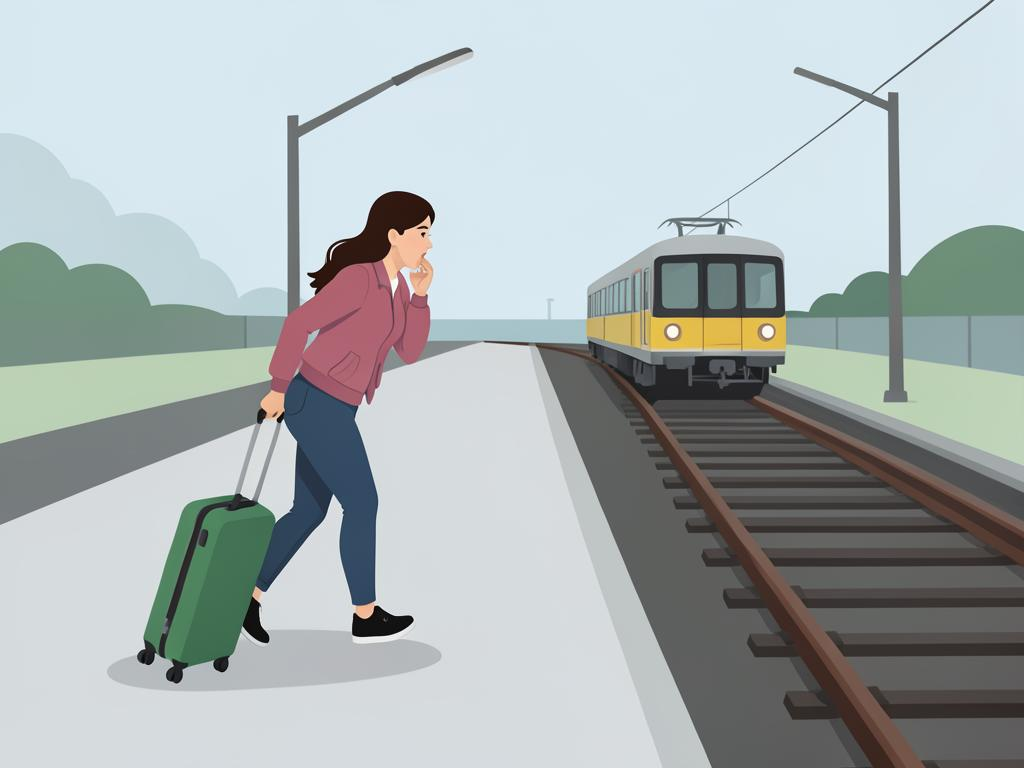
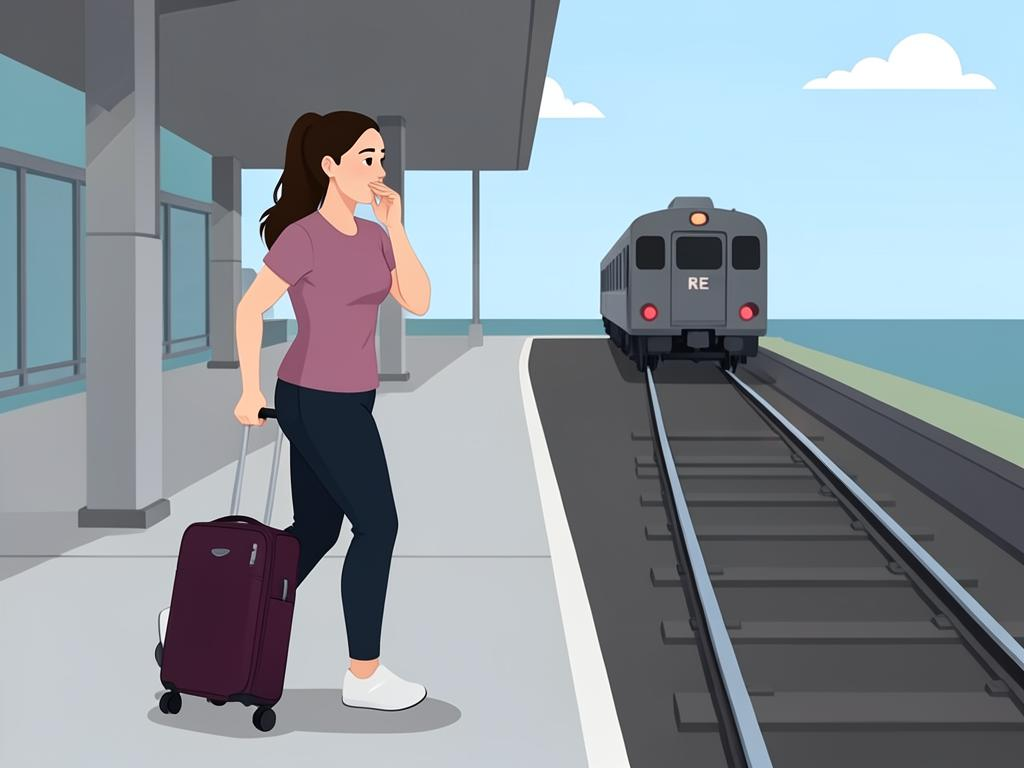
Changes

diff --git a/src/services/review/past-perfect-practices.ts b/src/services/review/past-perfect-practices.ts
@@ -1,0 +1,21 @@
+import type { ReviewPractice } from "@/lib/review-types";
+import scene1 from "@/assets/review/past-perfect/practice-1-sofia.jpg";
+import scene2 from "@/assets/review/past-perfect/practice-2-interview.jpg";
+import scene3 from "@/assets/review/past-perfect/practice-3-carlos.jpg";
+import scene4 from "@/assets/review/past-perfect/practice-4-trip.jpg";
+import scene5 from "@/assets/review/past-perfect/practice-5-elena.jpg";
+
+const img=(src:string,alt:string,altEs:string)=>({src,alt,altEs});
+const q=(id:string,question:string,questionEs:string,hint:string,hintEs:string)=>({id,question,questionEs,hint,hintEs});
+export const PAST_PERFECT_PRACTICES: ReviewPractice[] = [
+ { number:1,id:"pap-1-sofia",title:"Sofia missed the train",titleEs:"Sofía perdió el tren",person:"third",character:"Sofia",focus:"Earlier completed actions and ongoing activity before a missed train.",focusEs:"Acciones completadas y actividad continua antes de perder un tren.",reminder:{en:"Use had + participle for the earlier result and had been + -ing for duration.",es:"Usa had + participio para el resultado anterior y had been + -ing para duración."},showFullGuide:true,instructions:{en:"Explain what had happened before Sofia reached the platform.",es:"Explica qué había pasado antes de que Sofía llegara al andén."},sceneImage:img(scene1,"Sofia watching the train she had missed","Sofía observando el tren que había perdido"),vocabulary:["had left","had forgotten","had been running","by the time","because","before"],lines:[
+  {id:"pap1-l1",text:"Sofia had woken up later than usual.",es:"Sofía se había despertado más tarde de lo normal.",chunks:["Sofia had woken up","later than usual."]},{id:"pap1-l2",text:"She had forgotten to set her alarm.",es:"Había olvidado poner la alarma.",chunks:["She had forgotten","to set her alarm."]},{id:"pap1-l3",text:"She had been getting ready in a hurry.",es:"Había estado preparándose con prisa.",chunks:["She had been getting ready","in a hurry."]},{id:"pap1-l4",text:"She had called a taxi before leaving home.",es:"Había llamado un taxi antes de salir de casa.",chunks:["She had called a taxi","before leaving home."]},{id:"pap1-l5",text:"Traffic had delayed her for twenty minutes.",es:"El tráfico la había retrasado veinte minutos.",chunks:["Traffic had delayed her","for twenty minutes."]},{id:"pap1-l6",text:"She had been running toward the platform.",es:"Había estado corriendo hacia el andén.",chunks:["She had been running","toward the platform."]},{id:"pap1-l7",text:"The train had already left when she arrived.",es:"El tren ya había salido cuando ella llegó.",chunks:["The train had already left","when she arrived."]},{id:"pap1-l8",text:"She was tired because she had been rushing all morning.",es:"Estaba cansada porque había estado apurada toda la mañana.",chunks:["She was tired because","she had been rushing","all morning."]}],questions:[q("pap1-q1","What had Sofia forgotten to do?","¿Qué había olvidado hacer Sofía?","She had forgotten…","Usa had + participio."),q("pap1-q2","Why had she arrived late?","¿Por qué había llegado tarde?","She had arrived late because…","Usa because."),q("pap1-q3","How long had traffic delayed her?","¿Cuánto tiempo la había retrasado el tráfico?","It had delayed her for…","Di la duración."),q("pap1-q4","Where had she been running?","¿Hacia dónde había estado corriendo?","She had been running toward…","Di el lugar."),q("pap1-q5","When had the train left?","¿Cuándo había salido el tren?","It had left before…","Usa before.")],finalPrompt:{question:"Tell Sofia's morning story and explain why she missed the train.",questionEs:"Cuenta la mañana de Sofía y explica por qué perdió el tren.",tips:{en:"Use had + participle for results and had been + -ing for longer actions.",es:"Usa had + participio para resultados y had been + -ing para acciones prolongadas."}},grammarGoals:["had + past participle","had been + -ing","before, when and because"] },
+ { number:2,id:"pap-2-interview",title:"Before my interview",titleEs:"Antes de mi entrevista",person:"first",character:null,focus:"Personal preparation completed or continuing before an interview.",focusEs:"Preparación personal completada o continua antes de una entrevista.",reminder:{en:"Say what you had completed and what you had been doing before the interview.",es:"Di qué habías completado y qué habías estado haciendo antes de la entrevista."},showFullGuide:false,instructions:{en:"Imagine the night and morning before an important interview.",es:"Imagina la noche y la mañana antes de una entrevista importante."},sceneImage:img(scene2,"A learner preparing late for an interview","Un estudiante preparándose hasta tarde para una entrevista"),vocabulary:["had prepared","had reviewed","had been practicing","for hours","before","by the time"],lines:[
+  {id:"pap2-l1",text:"I had researched the company before the interview.",es:"Había investigado la empresa antes de la entrevista.",chunks:["I had researched the company","before the interview."]},{id:"pap2-l2",text:"I had prepared my clothes the night before.",es:"Había preparado mi ropa la noche anterior.",chunks:["I had prepared my clothes","the night before."]},{id:"pap2-l3",text:"I had written answers to common questions.",es:"Había escrito respuestas a preguntas comunes.",chunks:["I had written answers","to common questions."]},{id:"pap2-l4",text:"I had been practicing my introduction for two hours.",es:"Había estado practicando mi presentación durante dos horas.",chunks:["I had been practicing","my introduction","for two hours."]},{id:"pap2-l5",text:"I had been working on my pronunciation all week.",es:"Había estado trabajando en mi pronunciación toda la semana.",chunks:["I had been working","on my pronunciation","all week."]},{id:"pap2-l6",text:"I hadn't slept much before the interview.",es:"No había dormido mucho antes de la entrevista.",chunks:["I hadn't slept much","before the interview."]},{id:"pap2-l7",text:"By the time I left home, I had checked everything twice.",es:"Cuando salí de casa, había revisado todo dos veces.",chunks:["By the time I left home,","I had checked everything twice."]},{id:"pap2-l8",text:"I felt ready because I had been preparing carefully.",es:"Me sentía listo porque había estado preparándome con cuidado.",chunks:["I felt ready because","I had been preparing carefully."]}],questions:[q("pap2-q1","What had you prepared before the interview?","¿Qué habías preparado antes de la entrevista?","I had prepared…","Usa had + participio."),q("pap2-q2","How long had you been practicing?","¿Cuánto tiempo habías estado practicando?","I had been practicing for…","Usa for."),q("pap2-q3","Why had you felt ready?","¿Por qué te habías sentido listo?","I felt ready because…","Explica la razón."),q("pap2-q4","When had you checked everything?","¿Cuándo habías revisado todo?","By the time…","Usa by the time."),q("pap2-q5","How often had you practiced that week?","¿Con qué frecuencia habías practicado esa semana?","I had been practicing…","Di la frecuencia.")],finalPrompt:{question:"Describe everything you had done and had been doing before your interview.",questionEs:"Describe todo lo que habías hecho y habías estado haciendo antes de tu entrevista.",tips:{en:"Include three completed preparations, two longer activities and one negative.",es:"Incluye tres preparaciones completas, dos actividades prolongadas y una negativa."}},grammarGoals:["first person past perfect","first person past perfect progressive","by the time and before"] },
+ { number:3,id:"pap-3-carlos",title:"Carlos finished the project",titleEs:"Carlos terminó el proyecto",person:"third",character:"Carlos",focus:"Team results and sustained work before a presentation.",focusEs:"Resultados del equipo y trabajo sostenido antes de una presentación.",reminder:{en:"Completed project results use had finished; effort over time uses had been working.",es:"Los resultados completos usan had finished; el esfuerzo prolongado usa had been working."},showFullGuide:false,instructions:{en:"Tell how Carlos and his team reached the final presentation.",es:"Cuenta cómo Carlos y su equipo llegaron a la presentación final."},sceneImage:img(scene3,"Carlos presenting a completed project after weeks of work","Carlos presentando un proyecto completo después de semanas de trabajo"),vocabulary:["had completed","had tested","had been working","for weeks","deadline","presentation"],lines:[
+  {id:"pap3-l1",text:"Carlos had planned the project with his team.",es:"Carlos había planificado el proyecto con su equipo.",chunks:["Carlos had planned the project","with his team."]},{id:"pap3-l2",text:"They had divided the work before they started.",es:"Habían dividido el trabajo antes de comenzar.",chunks:["They had divided the work","before they started."]},{id:"pap3-l3",text:"They had been building the prototype for three weeks.",es:"Habían estado construyendo el prototipo durante tres semanas.",chunks:["They had been building","the prototype","for three weeks."]},{id:"pap3-l4",text:"Carlos had been checking every detail each evening.",es:"Carlos había estado revisando cada detalle cada tarde.",chunks:["Carlos had been checking","every detail","each evening."]},{id:"pap3-l5",text:"The team had tested the prototype twice.",es:"El equipo había probado el prototipo dos veces.",chunks:["The team had tested","the prototype twice."]},{id:"pap3-l6",text:"They hadn't found any serious problems.",es:"No habían encontrado problemas graves.",chunks:["They hadn't found","any serious problems."]},{id:"pap3-l7",text:"By presentation day, they had completed everything.",es:"Para el día de la presentación, habían completado todo.",chunks:["By presentation day,","they had completed everything."]},{id:"pap3-l8",text:"They were tired because they had been working late.",es:"Estaban cansados porque habían estado trabajando hasta tarde.",chunks:["They were tired because","they had been working late."]}],questions:[q("pap3-q1","Who had planned the project?","¿Quién había planificado el proyecto?","Carlos had…","Di quién."),q("pap3-q2","How long had the team been building the prototype?","¿Cuánto tiempo había estado construyendo el equipo el prototipo?","They had been building it for…","Usa for."),q("pap3-q3","Why had the team been tired?","¿Por qué había estado cansado el equipo?","They were tired because…","Usa because."),q("pap3-q4","What had they tested twice?","¿Qué habían probado dos veces?","They had tested…","Usa had + participio."),q("pap3-q5","How often had Carlos checked the details?","¿Con qué frecuencia Carlos había revisado los detalles?","He had been checking…","Di la frecuencia.")],finalPrompt:{question:"Explain how Carlos and his team had prepared before the final presentation.",questionEs:"Explica cómo Carlos y su equipo se habían preparado antes de la presentación final.",tips:{en:"Contrast completed results with work that had continued for weeks.",es:"Contrasta resultados completos con el trabajo que había continuado durante semanas."}},grammarGoals:["third person and plural past perfect","past perfect progressive for team effort","result versus duration"] },
+ { number:4,id:"pap-4-trip",title:"Before I reached the beach",titleEs:"Antes de llegar a la playa",person:"first",character:null,focus:"A travel sequence with completed preparations and a long journey.",focusEs:"Una secuencia de viaje con preparativos completos y un trayecto largo.",reminder:{en:"Use after and by the time to put your travel events in order.",es:"Usa after y by the time para ordenar los eventos del viaje."},showFullGuide:false,instructions:{en:"Tell a trip from packing at home to arriving at a rainy beach.",es:"Cuenta un viaje desde empacar en casa hasta llegar a una playa lluviosa."},sceneImage:img(scene4,"Travelers reaching a tropical beach after a rainy bus journey","Viajeros llegando a una playa tropical después de un trayecto lluvioso en bus"),vocabulary:["had packed","had booked","had been traveling","all day","after","by the time"],lines:[
+  {id:"pap4-l1",text:"I had booked the hotel before the trip.",es:"Había reservado el hotel antes del viaje.",chunks:["I had booked the hotel","before the trip."]},{id:"pap4-l2",text:"I had packed light clothes and a camera.",es:"Había empacado ropa ligera y una cámara.",chunks:["I had packed","light clothes and a camera."]},{id:"pap4-l3",text:"I had checked the weather, but the forecast had changed.",es:"Había revisado el clima, pero el pronóstico había cambiado.",chunks:["I had checked the weather,","but the forecast had changed."]},{id:"pap4-l4",text:"We had been traveling by bus since early morning.",es:"Habíamos estado viajando en bus desde temprano.",chunks:["We had been traveling by bus","since early morning."]},{id:"pap4-l5",text:"It had been raining for most of the journey.",es:"Había estado lloviendo durante casi todo el trayecto.",chunks:["It had been raining","for most of the journey."]},{id:"pap4-l6",text:"We hadn't eaten before we reached the coast.",es:"No habíamos comido antes de llegar a la costa.",chunks:["We hadn't eaten","before we reached the coast."]},{id:"pap4-l7",text:"By the time we arrived, the sun had started to appear.",es:"Cuando llegamos, el sol había comenzado a aparecer.",chunks:["By the time we arrived,","the sun had started to appear."]},{id:"pap4-l8",text:"I was excited because I had been dreaming about that beach.",es:"Estaba emocionado porque había estado soñando con esa playa.",chunks:["I was excited because","I had been dreaming","about that beach."]}],questions:[q("pap4-q1","What had you packed before the trip?","¿Qué habías empacado antes del viaje?","I had packed…","Usa had + participio."),q("pap4-q2","Where had you been traveling?","¿Hacia dónde habías estado viajando?","We had been traveling to…","Di el destino."),q("pap4-q3","How long had it been raining?","¿Cuánto tiempo había estado lloviendo?","It had been raining for…","Usa for."),q("pap4-q4","Why had you felt excited?","¿Por qué te habías sentido emocionado?","I was excited because…","Usa because."),q("pap4-q5","When had the sun appeared?","¿Cuándo había aparecido el sol?","By the time…","Usa by the time.")],finalPrompt:{question:"Tell the complete trip and what had happened before you reached the beach.",questionEs:"Cuenta el viaje completo y lo que había ocurrido antes de llegar a la playa.",tips:{en:"Use after, before and by the time, plus both perfect forms.",es:"Usa after, before y by the time, además de ambas formas perfectas."}},grammarGoals:["travel sequence with past perfect","weather and journey duration","after, before and by the time"] },
+ { number:5,id:"pap-5-elena",title:"Elena solved the problem",titleEs:"Elena resolvió el problema",person:"third",character:"Elena",focus:"A solved technical problem after completed checks and sustained troubleshooting.",focusEs:"Un problema técnico resuelto después de revisiones completas y trabajo continuo.",reminder:{en:"Tell the finished checks with had + participle and the long effort with had been + -ing.",es:"Cuenta las revisiones terminadas con had + participio y el esfuerzo largo con had been + -ing."},showFullGuide:false,instructions:{en:"Explain how Elena's team restored the system after working all night.",es:"Explica cómo el equipo de Elena restauró el sistema después de trabajar toda la noche."},sceneImage:img(scene5,"Elena and her team after restoring a computer system","Elena y su equipo después de restaurar un sistema informático"),vocabulary:["had failed","had checked","had been troubleshooting","all night","because","finally"],lines:[
+  {id:"pap5-l1",text:"The office system had failed before midnight.",es:"El sistema de la oficina había fallado antes de medianoche.",chunks:["The office system had failed","before midnight."]},{id:"pap5-l2",text:"Elena had received several urgent calls.",es:"Elena había recibido varias llamadas urgentes.",chunks:["Elena had received","several urgent calls."]},{id:"pap5-l3",text:"Her team had been troubleshooting the problem all night.",es:"Su equipo había estado resolviendo el problema toda la noche.",chunks:["Her team had been troubleshooting","the problem","all night."]},{id:"pap5-l4",text:"They had checked every cable and computer.",es:"Habían revisado cada cable y computadora.",chunks:["They had checked","every cable and computer."]},{id:"pap5-l5",text:"They hadn't discovered the cause at first.",es:"Al principio no habían descubierto la causa.",chunks:["They hadn't discovered","the cause","at first."]},{id:"pap5-l6",text:"Elena had been comparing the settings for hours.",es:"Elena había estado comparando las configuraciones durante horas.",chunks:["Elena had been comparing","the settings","for hours."]},{id:"pap5-l7",text:"She found a cable that someone had connected incorrectly.",es:"Encontró un cable que alguien había conectado incorrectamente.",chunks:["She found a cable","that someone had connected incorrectly."]},{id:"pap5-l8",text:"Everyone felt relieved because they had finally restored the system.",es:"Todos se sintieron aliviados porque finalmente habían restaurado el sistema.",chunks:["Everyone felt relieved because","they had finally restored","the system."]}],questions:[q("pap5-q1","What had failed before midnight?","¿Qué había fallado antes de medianoche?","The system had…","Di qué falló."),q("pap5-q2","Why had Elena received urgent calls?","¿Por qué Elena había recibido llamadas urgentes?","She had received calls because…","Usa because."),q("pap5-q3","How long had the team been troubleshooting?","¿Cuánto tiempo había estado resolviendo el problema el equipo?","They had been troubleshooting for…","Di la duración."),q("pap5-q4","Who had connected the cable incorrectly?","¿Quién había conectado mal el cable?","Someone had…","Usa had + participio."),q("pap5-q5","How often had Elena checked the settings?","¿Con qué frecuencia Elena había revisado las configuraciones?","She had been checking…","Di la frecuencia.")],finalPrompt:{question:"Tell how Elena and her team solved the problem after working all night.",questionEs:"Cuenta cómo Elena y su equipo resolvieron el problema después de trabajar toda la noche.",tips:{en:"Explain the problem, the long investigation, the discovery and the final result.",es:"Explica el problema, la investigación prolongada, el descubrimiento y el resultado final."}},grammarGoals:["past perfect for previous technical events","past perfect progressive for troubleshooting duration","because and before"] },
+];

diff --git a/src/services/review/past-perfect-guide.ts b/src/services/review/past-perfect-guide.ts
@@ -1,0 +1,29 @@
+import type { ReviewGuideCard, ReviewModule } from "@/lib/review-types";
+import g1 from "@/assets/review/past-perfect/guide-1-order.jpg";
+import g2 from "@/assets/review/past-perfect/guide-2-form.jpg";
+import g3 from "@/assets/review/past-perfect/guide-3-duration.jpg";
+import g4 from "@/assets/review/past-perfect/guide-4-contrast.jpg";
+import g5 from "@/assets/review/past-perfect/guide-5-negative.jpg";
+import g6 from "@/assets/review/past-perfect/guide-6-questions.jpg";
+import g7 from "@/assets/review/past-perfect/guide-7-connectors.jpg";
+
+const image = (src: string, alt: string, altEs: string) => ({ src, alt, altEs });
+
+export const PAST_PERFECT_GUIDE: ReviewGuideCard[] = [
+  { id:"pap-1-order", title:"An earlier past action", titleEs:"Una acción anterior en el pasado", explanation:"Use the past perfect for the action that happened first when you talk about two past moments.", explanationEs:"Usa past perfect para la acción que ocurrió primero cuando cuentas dos momentos del pasado.", image:image(g1,"A traveler watching the plane that had departed","Una viajera observando el avión que ya había salido"), examples:[{en:"The plane had left before Ana arrived.",es:"El avión había salido antes de que Ana llegara."},{en:"I had eaten when he called.",es:"Yo ya había comido cuando él llamó."},{en:"They had finished before noon.",es:"Habían terminado antes del mediodía."}], check:{prompt:"Say which action happened first: I had eaten when he called.",promptEs:"Di cuál acción ocurrió primero: I had eaten when he called.",answer:"I had eaten first."} },
+  { id:"pap-2-form", title:"had + past participle", titleEs:"had + participio", explanation:"Had is the same for every subject. Follow it with a past participle.", explanationEs:"Had es igual para todos los sujetos. Después usa el participio pasado.", image:image(g2,"A room prepared before guests arrived","Un salón preparado antes de que llegaran los invitados"), examples:[{en:"I had prepared everything.",es:"Yo había preparado todo."},{en:"She had written the email.",es:"Ella había escrito el correo."},{en:"We had gone home.",es:"Nos habíamos ido a casa."}], check:{prompt:"Correct: She had wrote the email.",promptEs:"Corrige: She had wrote the email.",answer:"She had written the email."} },
+  { id:"pap-3-progressive", title:"had been + verb-ing", titleEs:"had been + verbo-ing", explanation:"Use it for an activity that continued for some time before another past event.", explanationEs:"Úsalo para una actividad que continuó durante un tiempo antes de otro evento pasado.", image:image(g3,"A runner who had been running before the rain","Una corredora que había estado corriendo antes de la lluvia"), examples:[{en:"She had been running for an hour when it rained.",es:"Ella había estado corriendo por una hora cuando llovió."},{en:"We had been waiting since noon.",es:"Habíamos estado esperando desde el mediodía."},{en:"He had been studying all night.",es:"Él había estado estudiando toda la noche."}], check:{prompt:"Say how long he had been studying.",promptEs:"Di cuánto tiempo había estado estudiando.",answer:"He had been studying all night."} },
+  { id:"pap-4-contrast", title:"Result or duration?", titleEs:"¿Resultado o duración?", explanation:"Past perfect emphasizes a completed result. Past perfect progressive emphasizes the activity or its duration.", explanationEs:"Past perfect enfatiza un resultado completo. Past perfect progressive enfatiza la actividad o su duración.", image:image(g4,"Finished boxes compared with someone still packing","Cajas terminadas comparadas con alguien que seguía empacando"), examples:[{en:"They had packed six boxes. (result)",es:"Habían empacado seis cajas. (resultado)"},{en:"They had been packing for hours. (duration)",es:"Habían estado empacando por horas. (duración)"},{en:"The floor was wet because it had been raining.",es:"El piso estaba mojado porque había estado lloviendo."}], check:{prompt:"Choose the form for a completed result.",promptEs:"Elige la forma para un resultado completo.",answer:"They had packed six boxes."} },
+  { id:"pap-5-negative", title:"Negatives", titleEs:"Negativas", explanation:"Use had not (hadn't) + participle, or hadn't been + verb-ing.", explanationEs:"Usa had not (hadn't) + participio, o hadn't been + verbo-ing.", image:image(g5,"A family discovering dinner had not been prepared","Una familia descubriendo que la cena no había sido preparada"), examples:[{en:"I hadn't finished when she arrived.",es:"Yo no había terminado cuando ella llegó."},{en:"He hadn't called before the meeting.",es:"Él no había llamado antes de la reunión."},{en:"They hadn't been sleeping well.",es:"No habían estado durmiendo bien."}], check:{prompt:"Make negative: She had finished.",promptEs:"Haz negativa: She had finished.",answer:"She hadn't finished."} },
+  { id:"pap-6-questions", title:"Questions", titleEs:"Preguntas", explanation:"Put had before the subject. For duration, use How long had … been + -ing?", explanationEs:"Pon had antes del sujeto. Para duración usa How long had … been + -ing?", image:image(g6,"Coworkers asking about earlier project events","Compañeros preguntando por eventos anteriores del proyecto"), examples:[{en:"What had you done before noon?",es:"¿Qué habías hecho antes del mediodía?"},{en:"Had she left before you arrived?",es:"¿Ella se había ido antes de que llegaras?"},{en:"How long had they been working?",es:"¿Cuánto tiempo habían estado trabajando?"}], check:{prompt:"Ask how long he had been waiting.",promptEs:"Pregunta cuánto tiempo había estado esperando.",answer:"How long had he been waiting?"} },
+  { id:"pap-7-connectors", title:"Make the sequence clear", titleEs:"Aclara la secuencia", explanation:"Use before, after, by the time, when and because to connect the earlier action to the later event.", explanationEs:"Usa before, after, by the time, when y because para conectar la acción anterior con el evento posterior.", image:image(g7,"A traveler preparing, traveling and arriving in sequence","Un viajero preparando, viajando y llegando en secuencia"), examples:[{en:"By the time we arrived, the rain had stopped.",es:"Cuando llegamos, la lluvia ya había parado."},{en:"After I had packed, I called a taxi.",es:"Después de empacar, llamé un taxi."},{en:"She was tired because she had been driving all day.",es:"Estaba cansada porque había estado manejando todo el día."}], check:{prompt:"Connect two events with by the time.",promptEs:"Conecta dos eventos con by the time.",answer:"By the time I arrived, they had left."} },
+];
+
+export const PAST_PERFECT_COMMON_ERRORS: ReviewModule["commonErrors"] = [
+  { wrong:"She had went home.", right:"She had gone home.", es:"Después de had usa el participio: gone, no went." },
+  { wrong:"I have finished before he arrived.", right:"I had finished before he arrived.", es:"Para una acción anterior a otro momento pasado usa had." },
+  { wrong:"They had been work all night.", right:"They had been working all night.", es:"Después de had been usa verbo con -ing." },
+  { wrong:"He had working for hours.", right:"He had been working for hours.", es:"En la forma progresiva no olvides been." },
+  { wrong:"Had she went before noon?", right:"Had she gone before noon?", es:"La pregunta también lleva participio." },
+  { wrong:"We had been knowing him for years.", right:"We had known him for years.", es:"Know es verbo de estado; usa past perfect, no progresivo." },
+];
